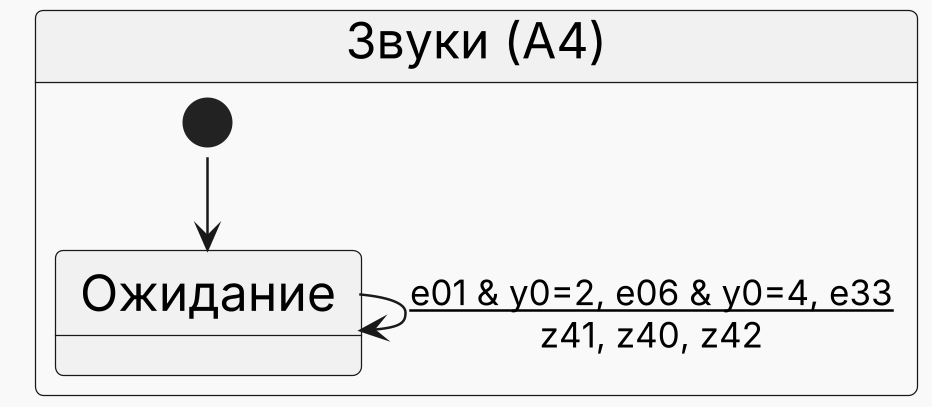
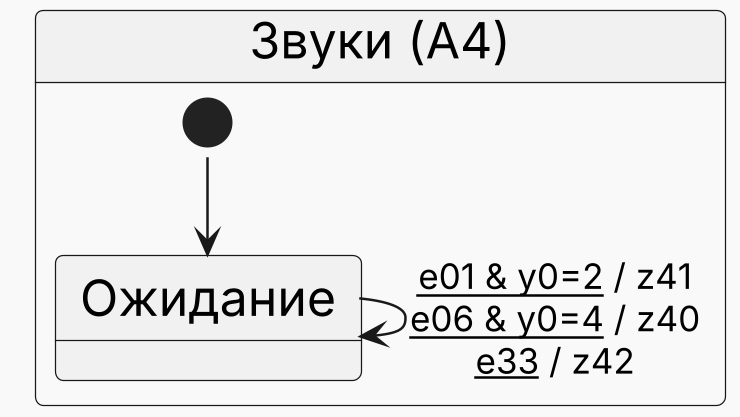
Round 2: redraw fig. 5 with one line per A4 transition
The three self-loops of A4 were drawn as one arrow with a merged label
and read as a single transition. docx_tex build now replaces a picture
when its \\includegraphics file changes.

Claude-Session: https://claude.ai/code/session_01Dbk9FbN51LJL1bcmGw4FBj

Changed region(s): [[0.0311, 0.0, 0.9946, 0.973]]

diff --git a/tools/docx_tex.py b/tools/docx_tex.py
@@ -16,6 +16,8 @@ base.docx exactly. In the .tex:
   - remove a marker with its text to delete the paragraph;
   - start a paragraph with `% @new` (optionally `% @new like=N`) to insert
     it after the previous paragraph;
+  - point the \\includegraphics after `% @img N` to another file to
+    replace that picture (the old one is shown deleted, the new inserted);
   - `% @comment: text` (or `% @comment resolved: text`) attaches a comment
     to the paragraph above it;
   - any other `%` line is a note for the authors and is ignored.
@@ -181,6 +183,16 @@ def parse(tex_path):
                 cur = {"kind": "new", "like": int(m.group(1)) if m.group(1) else None, "text": [], "comments": []}
                 blocks.append(cur)
                 continue
+            m = re.match(r"%\s*@img\s+(\d+)\s*$", s)
+            if m:
+                cur = {"kind": "img", "idx": int(m.group(1)), "text": [], "comments": [], "src": None}
+                blocks.append(cur)
+                continue
+            m = re.search(r"\\includegraphics(?:\[[^]]*\])?\{([^}]*)\}", s)
+            if m and cur is not None and cur["kind"] == "img":
+                cur["src"] = m.group(1)
+                cur = None
+                continue
             m = re.match(r"%\s*@comment(\s+resolved)?\s*:\s*(.*)$", s)
             if m and cur is not None:
                 cur["comments"].append((m.group(2), bool(m.group(1))))
@@ -209,7 +221,22 @@ def build(base_docx, tex_path, out_docx, author="Claude"):
     anchor = None
     elements = {i: p for i, p in enumerate(d._paras)}
     base_text = list(d._orig_text)
+    tex_dir = os.path.dirname(os.path.abspath(tex_path))
+    rels = etree.parse(os.path.join(d.dir, "word", "_rels", "document.xml.rels")).getroot()
+    targets = {r.get("Id"): r.get("Target") for r in rels}
+    images = []
     for b in blocks:
+        if b["kind"] == "img":
+            if b["src"]:
+                p = elements[b["idx"]]
+                blip = next(p.iter("{http://schemas.openxmlformats.org/drawingml/2006/main}blip"))
+                old = os.path.join(d.dir, "word", targets[blip.get(
+                    "{http://schemas.openxmlformats.org/officeDocument/2006/relationships}embed")])
+                new = os.path.join(tex_dir, b["src"])
+                with open(old, "rb") as f1, open(new, "rb") as f2:
+                    if f1.read() != f2.read():
+                        images.append((p, new))
+            continue
         if b["kind"] == "p":
             p = elements[b["idx"]]
             seen.add(b["idx"])
@@ -228,6 +255,8 @@ def build(base_docx, tex_path, out_docx, author="Claude"):
         text = base_text[i]
         if i not in seen and text.strip() and p.find(".//" + q("w:drawing")) is None:
             d.delete_paragraph(p)
+    for p, new in images:
+        d.replace_image(p, new)
     d.save(out_docx)
 
 

diff --git a/articles/multiply_many_nested/review/source/article.tex b/articles/multiply_many_nested/review/source/article.tex
@@ -232,9 +232,10 @@ Keywords – automata, nested automata, automata composition, validation.
 \subsection*{Автомат 5. «Звуки» ($A_{4}$)}
 
 % @img 139
-\begin{center}\includegraphics[width=0.8\linewidth]{media/image_r1.png}\end{center}
+\begin{center}\includegraphics[width=0.8\linewidth]{media/fig5_a4.png}\end{center}
 % @p 140
 Рис. 5. Диаграмма состояний автомата $A_{4}$: одно состояние и петля с тремя пометками, по одной на каждое место вложения
+% @comment: Рисунок заменён: три перехода-петли на одной стрелке слились в одну пометку и читались как один переход. Теперь каждый переход – отдельная строка вида «условие / действие».
 
 % @p 142
 Таблица 6. Входные и выходные воздействия автомата «Звуки» ($A_{4}$)

diff --git a/articles/multiply_many_nested/review/review_log.md b/articles/multiply_many_nested/review/review_log.md
@@ -125,3 +125,9 @@
 | R2.32 | Вывод | Предложенные доработки снимают три ограничения предыдущей работы: в состояние может быть вложено несколько автоматов (ограничение 1), автомат может быть вложен в несколько состояний (ограничение 2), и вложенные автоматы могут содержать оба перемножаемых автомата (ограничение 3), что позволяет строить цепочки вложенности произвольной глубины. Кроме того, устранена ошибка, при которой вложенный автомат мог реагировать на адресованное событие отдельно от перехода автомата-отправителя (доработка 3), и адресованное событие теперь поступает также автоматам, вложенным в состояние получателя (доработка 4). | Предложенные доработки снимают три ограничения предыдущей работы. Теперь в состояние можно вложить несколько автоматов (ограничение 1), автомат можно вложить в несколько состояний (ограничение 2), а вложенные автоматы могут содержать оба перемножаемых автомата (ограничение 3). Вместе это позволяет строить цепочки вложенности любой глубины. Кроме того, исправлена ошибка, при которой вложенный автомат реагировал на адресованное событие отдельно от перехода отправителя (доработка 3), и адресованное событие теперь получают также автоматы, вложенные в состояние получателя (доработка 4). | 1 итог; 2 связь: раскрывает итог по ограничениям; 3 связь: «вместе это» – общее следствие;; 4 связь: «кроме того» – результаты сверх ограничений. |
 | R2.33 | Вывод | Порядок умножения остаётся существенным в двух случаях: автомат, на состояние которого ссылается гвард, должен быть включён в произведение не позднее автомата, содержащего этот гвард, а автомат, получающий адресованные события через вложенность, – после родительского. Для адресованных событий, поступающих напрямую, требование на порядок снято. | Порядок перемножения автоматов по-прежнему важен в двух случаях. Автомат, на состояние которого ссылается гвард, должен войти в произведение не позднее автомата с этим гвардом. Автомат, который получает адресованные события через вложенность, должен войти в произведение после родительского. Для адресованных событий, которые приходят напрямую, порядок не важен. | 1 тезис; 2, 3 связь: два случая из тезиса; 4 связь: где порядок не важен. |
 | R2.34 | Вывод | Итоговое произведение пяти автоматов содержит девять состояний вместо 16 состояний исходной системы из пяти автоматов (верхняя оценка числа состояний произведения – 5·4·4·2·1 = 160). Автомат-произведение и исходная система функционируют одинаково на всех последовательностях входных воздействий длиной до 20 и на 1000 случайных последовательностях длиной 100. Программа, реализующая предлагаемый метод перемножения автоматов, опубликована по адресу https://github.com/PhoenixNazarov/fsm-multiply. | Для системы из пяти автоматов итоговое произведение содержит девять состояний. В исходной системе 16 состояний, а верхняя оценка числа состояний произведения равна 5·4·4·2·1 = 160. Автомат-произведение и исходная система функционируют одинаково на всех последовательностях входных воздействий длиной до 20 и на 1000 случайных последовательностях длиной 100. Программа, которая реализует предлагаемый метод перемножения автоматов, опубликована по адресу https://github.com/PhoenixNazarov/fsm-multiply. | 1 результат; 2 связь: с чем сравнить; 3 связь: что результат правильный; 4 связь: где взять программу. |
+
+### Рисунки, круг 2
+
+| № | Где | Было | Стало | Причина |
+|---|---|---|---|---|
+| R2.F1 | Рис. 5, автомат «Звуки» (A4) | Одна петля с общей пометкой «e01 & y0=2, e06 & y0=4, e33 / z41, z40, z42» | Одна петля, три строки: «e01 & y0=2 / z41», «e06 & y0=4 / z40», «e33 / z42» | Замечание автора: «видно только один переход». Три отдельные петли PlantUML (smetana) рисует внахлёст, поэтому выбран предложенный автором вариант с «/» |
